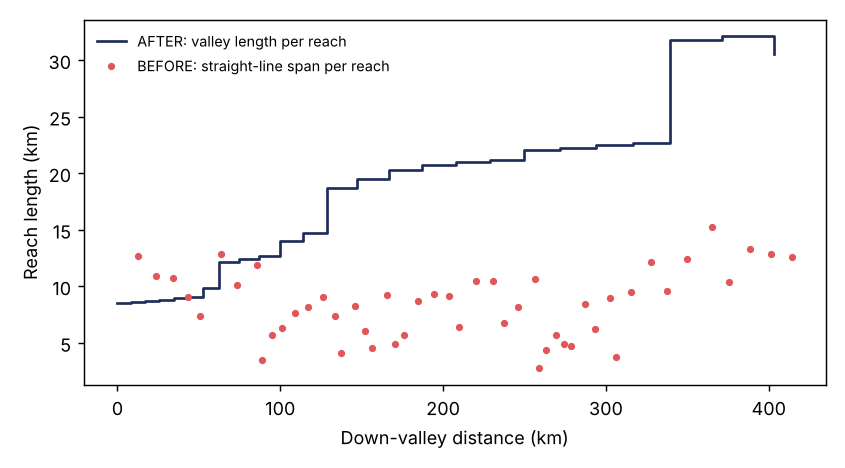
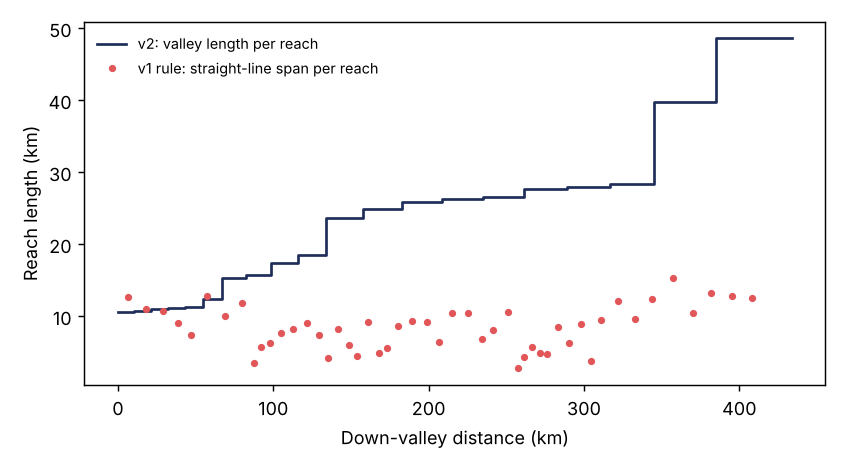
Split reaches by nearest valley position; default k = 100 widths
Reach polygon boundaries followed the channel (nearest channel
centreline). New default `boundary_method: nearest_valley` merges the
reach buffers into one corridor (head/mouth squared off) and splits it
by nearest position along the valley line, so boundaries run
perpendicular to the valley, never overlap, and match the valley-distance
reach definition; the same partition can split a wider channel belt
later. nearest_centerline and cut_lines remain as options.

Default widths_per_reach 80 -> 100 (~9 meander wavelengths, ~20 bends)
for slightly longer reaches. Ok Tedi-Fly: 20 reaches, valley length
10.6 -> 48.6 km, no overlaps. Docs and figures updated. 41 tests.

Claude-Session: https://claude.ai/code/session_01MCMKuBgRrXSshe94v2fCXk

diff --git a/rivmapper_v2/reaches.py b/rivmapper_v2/reaches.py
@@ -1,7 +1,7 @@
 """Step 02 — divide each river into reaches and build reach polygons.
 
 Default (``length_method: valley_widths``): reaches are ``widths_per_reach``
-(k = 80) channel widths long measured along a smoothed *valley line*, with
+(k = 100) channel widths long measured along a smoothed *valley line*, with
 width from a per-river power law W(A) fitted to SWORD node widths, so
 reaches hold a consistent number of meander wavelengths and lengthen
 downstream (see ``valley.py`` and docs/methods/reaches.md). The v1 rule,
@@ -12,10 +12,13 @@ Each reach centreline is buffered by ``buffer_width`` × its valley length
 (channel length for drainage_regression). Neighbouring buffers are
 separated by ``boundary_method``:
 
-``nearest_centerline`` (default)
-    Every point goes to the reach whose centreline is closest (a Voronoi
-    partition of points sampled along the centrelines), so polygons never
-    overlap or leave wedge gaps, even where the channel loops back.
+``nearest_valley`` (default)
+    The buffers are merged into one corridor, which is split by nearest
+    position along the valley line (Voronoi partition of points sampled
+    along the valley line), so boundaries run perpendicular to the valley,
+    never overlap, and are consistent with valley-distance reaches.
+``nearest_centerline``
+    Every point goes to the reach whose channel centreline is closest.
 ``cut_lines``
     Perpendicular cuts at every boundary (original method); can overlap
     where the channel doubles back.
@@ -300,6 +303,43 @@ def nearest_centerline_cells(
     return out
 
 
+def nearest_valley_cells(
+    vl, reach_starts: np.ndarray, extent, spacing_m: float = 100.0
+) -> list:
+    """Partition ``extent`` by nearest position along the valley line.
+
+    Points are sampled every ``spacing_m`` along the valley line and
+    labelled with the reach whose valley-distance interval contains them;
+    their Voronoi cells are dissolved by reach. Near the valley line the
+    boundaries are perpendicular to it at each reach break, and they extend
+    without crossing across a wide valley.
+    """
+    import shapely
+
+    v = vl.valley_dist
+    d = np.r_[np.arange(0.0, v[-1], spacing_m), v[-1]]
+    px, py = np.interp(d, v, vl.x), np.interp(d, v, vl.y)
+    # drop duplicate coordinates (Voronoi needs distinct points)
+    keep = np.r_[True, np.hypot(np.diff(px), np.diff(py)) > 1e-6]
+    d, px, py = d[keep], px[keep], py[keep]
+    labels = np.clip(np.searchsorted(reach_starts, d, side="right") - 1, 0, None)
+    pts = shapely.points(px, py)
+    cells = shapely.get_parts(
+        shapely.voronoi_polygons(shapely.multipoints(pts), extend_to=extent)
+    )
+    point_idx, cell_idx = shapely.STRtree(cells).query(pts, predicate="within")
+    owner = np.full(len(cells), -1)
+    owner[cell_idx] = labels[point_idx]
+    out = []
+    for i in range(len(reach_starts)):
+        mine = cells[owner == i]
+        try:
+            out.append(shapely.coverage_union_all(mine))
+        except Exception:  # noqa: BLE001
+            out.append(shapely.union_all(mine))
+    return out
+
+
 def _total_overlap_km2(geoms: list) -> float:
     """Sum of pairwise intersection areas between all polygons."""
     import shapely
@@ -494,7 +534,49 @@ def build_reaches(
     n = len(reach_geoms)
     polys, unclipped, multipart = [], [], []
 
-    if settings.boundary_method == "nearest_centerline":
+    method = settings.boundary_method
+    if method == "nearest_valley" and vl is None:
+        log.info(
+            "  boundary_method nearest_valley needs a valley line "
+            "(length_method valley_widths); using nearest_centerline"
+        )
+        method = "nearest_centerline"
+
+    if method == "nearest_valley":
+        # One corridor (union of all reach buffers, head and mouth squared
+        # off), split by nearest position along the valley line, so reach
+        # boundaries run perpendicular to the valley, not the channel.
+        import shapely
+        from shapely.geometry import box
+
+        corridor = shapely.union_all(buffers)
+        corridor, ok_head = clip_by_cut(corridor, cuts[0], mids[0])
+        corridor, ok_mouth = clip_by_cut(corridor, cuts[-1], mids[-1])
+        if not ok_head:
+            unclipped.append(1)
+        if not ok_mouth:
+            unclipped.append(n)
+        extent = box(*corridor.bounds).buffer(1.0)
+        cells = nearest_valley_cells(
+            vl,
+            lines["valley_dist"].to_numpy(),
+            extent,
+            settings.partition_spacing_m,
+        )
+        for i in range(n):
+            poly = corridor.intersection(cells[i])
+            if poly.geom_type == "GeometryCollection":
+                poly = shapely.union_all(
+                    [
+                        g
+                        for g in poly.geoms
+                        if g.geom_type in ("Polygon", "MultiPolygon")
+                    ]
+                )
+            if poly.geom_type == "MultiPolygon":
+                multipart.append(i + 1)
+            polys.append(poly)
+    elif method == "nearest_centerline":
         # Neighbours are separated by the nearest-centreline partition; cut
         # lines are only used to square off the river head and mouth.
         from shapely.geometry import box
@@ -541,7 +623,7 @@ def build_reaches(
     if overlap_km2 > 0.01:
         log.warning(
             "  reach polygons overlap by %.2f km² in total — likely crossing "
-            "cut lines on a sharp bend; use boundary_method: nearest_centerline",
+            "cut lines on a sharp bend; use boundary_method: nearest_valley",
             overlap_km2,
         )
     if multipart:
@@ -551,12 +633,12 @@ def build_reaches(
             multipart,
         )
 
+    diag["boundary_method"] = method
     diagnostics = {
         **diag,
         "n_reaches": int(len(lines)),
         "river_length_km": round(float(cum_end[-1]) / 1000, 3),
         "trimmed_tail_km": round(trimmed_m / 1000, 3),
-        "boundary_method": settings.boundary_method,
         "unclipped_reaches": unclipped,
         "multipart_reaches": multipart,
         "overlap_km2": round(overlap_km2, 4),

diff --git a/rivmapper_v2/templates.py b/rivmapper_v2/templates.py
@@ -67,7 +67,7 @@ reaches:
   #   along a smoothed valley line; W(A) is a width-vs-drainage-area power law
   #   fitted to SWORD widths. drainage_regression: v1 rule on channel length.
   length_method: {_v(r["length_method"])}
-  widths_per_reach: {_v(r["widths_per_reach"])}       # k: ~80 W = ~7 meander wavelengths, ~15 bends
+  widths_per_reach: {_v(r["widths_per_reach"])}       # k: 100 W = ~9 meander wavelengths, ~20 bends
   buffer_width: {_v(r["buffer_width"])}        # buffer half-width as a fraction of reach (valley) length (required)
   valley_sigma_widths: {_v(r["valley_sigma_widths"])}    # valley-line smoothing scale (channel widths)
   valley_sinuosity_factor: {_v(r["valley_sinuosity_factor"])} # smoothing in sinuous reaches = this x local sinuosity (widths)
@@ -82,11 +82,12 @@ reaches:
   smoothing_window_multiplier: {_v(r["smoothing_window_multiplier"])}  # cut-line direction window = this x reach length
   n_tangent_samples: {_v(r["n_tangent_samples"])}
   cut_extent_factor: {_v(r["cut_extent_factor"])}      # cut-line half-length = this x largest buffer
-  # How neighbouring polygons are separated: nearest_centerline (each point goes
-  # to the closest reach centreline; never overlaps) or cut_lines (perpendicular
-  # cuts at each boundary; can overlap where the channel loops back).
+  # How neighbouring polygons are separated: nearest_valley (closest position
+  # along the valley line; boundaries perpendicular to the valley), nearest_centerline
+  # (closest reach channel centreline) or cut_lines (perpendicular cuts at each
+  # boundary; can overlap where the channel loops back).
   boundary_method: {_v(r["boundary_method"])}
-  partition_spacing_m: {_v(r["partition_spacing_m"])}   # centreline sample spacing for nearest_centerline
+  partition_spacing_m: {_v(r["partition_spacing_m"])}   # sample spacing for nearest_valley / nearest_centerline
 
 # Step 03: water masks (not yet ported to the package; validated now so the
 # rivers table can already carry these columns).

diff --git a/tests/test_reaches.py b/tests/test_reaches.py
@@ -62,8 +62,8 @@ def test_reaches_step_on_synthetic_river(synthetic_project):
         "width_ref",
         "geometry",
     ]
-    # constant width 100 m → every reach but the last is 80 widths of valley
-    assert np.allclose(lines["valley_len"].iloc[:-1], 8000.0)
+    # constant width 100 m → every reach but the last is 100 widths of valley
+    assert np.allclose(lines["valley_len"].iloc[:-1], 10_000.0)
     g = list(polys.geometry)
     overlap = sum(g[i].intersection(g[i + 1]).area for i in range(len(g) - 1))
     assert overlap < 1.0  # m²; cut lines separate neighbours
@@ -225,3 +225,33 @@ def test_valley_method_needs_nodes():
     sword, _, _ = _meandering_river(n_bends=10)
     with pytest.raises(RuntimeError, match="nodes"):
         build_reaches(sword, ReachSettings(buffer_width=0.15))
+
+
+def test_nearest_valley_boundaries_cross_the_valley():
+    """On a straight east-west valley, reach boundaries should be ~vertical
+    lines at the reach breaks, whatever the channel does."""
+    import shapely
+
+    from rivmapper_v2.reaches import build_reaches
+
+    sword, nodes, _ = _meandering_river()
+    b = build_reaches(
+        sword, ReachSettings(buffer_width=0.3, widths_per_reach=80), nodes
+    )
+    assert b.diagnostics["boundary_method"] == "nearest_valley"
+    assert b.diagnostics["overlap_km2"] < 1e-6
+    polys = list(b.polygons.geometry)
+    for i in range(len(polys) - 1):
+        shared = shapely.intersection(polys[i].boundary, polys[i + 1].boundary)
+        xs = shapely.get_coordinates(shared)[:, 0]
+        assert np.ptp(xs) < 0.05 * b.lines["valley_len"].iloc[i]
+
+
+def test_nearest_valley_falls_back_without_valley_line():
+    from rivmapper_v2.reaches import build_reaches
+
+    b = build_reaches(
+        _hairpin_sword(),
+        ReachSettings(buffer_width=0.5, length_method="drainage_regression"),
+    )
+    assert b.diagnostics["boundary_method"] == "nearest_centerline"

diff --git a/rivmapper_v2/config.py b/rivmapper_v2/config.py
@@ -105,7 +105,7 @@ class ReachSettings(_Section):
         "drainage_regression: v1 channel-length regression on drainage area.",
     )
     widths_per_reach: float = Field(
-        80.0, gt=0, description="k: reach valley length in channel widths."
+        100.0, gt=0, description="k: reach valley length in channel widths."
     )
     valley_sigma_widths: float = Field(
         15.0, gt=0, description="Base valley-line smoothing scale (channel widths)."
@@ -134,11 +134,14 @@ class ReachSettings(_Section):
     smoothing_window_multiplier: float = Field(1.5, gt=0)
     n_tangent_samples: int = Field(21, ge=3)
     cut_extent_factor: float = Field(3.0, gt=0)
-    boundary_method: Literal["nearest_centerline", "cut_lines"] = Field(
-        "nearest_centerline",
-        description="How neighbouring reach polygons are separated: "
-        "nearest_centerline (each point goes to the closest reach centreline; "
-        "never overlaps) or cut_lines (perpendicular cuts at each boundary).",
+    boundary_method: Literal["nearest_valley", "nearest_centerline", "cut_lines"] = (
+        Field(
+            "nearest_valley",
+            description="How neighbouring reach polygons are separated: "
+            "nearest_valley (closest position along the valley line; boundaries "
+            "perpendicular to the valley), nearest_centerline (closest reach "
+            "channel centreline) or cut_lines (perpendicular cuts at each boundary).",
+        )
     )
     partition_spacing_m: float = Field(
         100.0,

diff --git a/tests/test_real_sword.py b/tests/test_real_sword.py
@@ -24,9 +24,9 @@ def test_beni_end_to_end(tmp_path, real_sword_dir):
     assert len(gpd.read_file(r.paths.sword_reaches)) == 73
     assert len(gpd.read_file(r.paths.sword_nodes)) == 4890
     lines = gpd.read_file(r.paths.reach_lines)
-    # valley_widths (default): ~80 widths of valley per reach, growing downstream
+    # valley_widths (default): 100 widths of valley per reach, growing downstream
     nw = lines["valley_len"] / lines["width_ref"]
-    assert nw.iloc[:-1].between(79, 81).all()
+    assert nw.iloc[:-1].between(99, 101).all()
     assert r.paths.valley_line.exists()
 
     # drainage_regression reproduces the v2 notebook result (45 reaches)

diff --git a/docs/methods/reaches.md b/docs/methods/reaches.md
@@ -4,17 +4,17 @@ How RivMapper v2 divides a river into analysis reaches: what is computed, which 
 
 ## Summary
 
-Reaches are defined by **down-valley length**, not along-channel length. Each reach spans a fixed number of channel widths of valley, **k × W(A)** with k = 80 by default, where **W(A)** is a power law of channel width against drainage area fitted to that river's SWORD node widths. Reaches therefore:
+Reaches are defined by **down-valley length**, not along-channel length. Each reach spans a fixed number of channel widths of valley, **k × W(A)** with k = 100 by default, where **W(A)** is a power law of channel width against drainage area fitted to that river's SWORD node widths. Reaches therefore:
 
-- contain a consistent number of meander wavelengths (~7) and bends (~15), however sinuous the channel is;
+- contain a consistent number of meander wavelengths (~9) and bends (~20), however sinuous the channel is;
 - lengthen downstream as the river widens, following the river's own measured hydraulic geometry;
 - have along-channel lengths that vary with sinuosity, as they should.
 
-Reach polygons are buffers of each reach centreline, separated from their neighbours by a nearest-centreline partition so they never overlap.
+Reach polygons cover a corridor around the channel. Neighbouring reaches are split by nearest position along the valley line, so boundaries run straight across the valley and polygons never overlap.
 
 ![Ok Tedi–Fly reaches before and after](img/oktedi_reaches_before_after.png)
 
-*Ok Tedi–Fly, buffer_width 0.15.* Left: v1 drainage-area regression on channel length (49 reaches). Right: 80 channel widths of valley length (25 reaches); the dashed line is the valley line.
+*Ok Tedi–Fly, buffer_width 0.15.* Left: the v1 rule (drainage-area regression on channel length, with perpendicular cut lines; 49 reaches). Right: 100 channel widths of valley length, split by nearest valley position (20 reaches). The dashed line is the valley line.
 
 ![Reach length profile](img/oktedi_reach_length_profile.png)
 
@@ -65,23 +65,26 @@ Starting at the upstream end, each reach's valley length is set to `widths_per_r
 - Breaks are placed at those valley distances and mapped to channel distance by interpolating between nodes. Each node's position along the merged channel line is forced to be monotonic first.
 - A final remainder shorter than `final_merge_fraction` (0.5) of its nominal length is merged into the reach above.
 
-**Why k = 80:**
-- Meander wavelength is ≈ 11 W (Leopold & Wolman, 1960; Williams, 1986), so 80 W is ≈ 7 wavelengths.
-- A bend is ≈ 10 W along the channel (Geyman et al., 2025), so 80 W of valley is ≈ 15 bends at modest sinuosity, and more where sinuosity is higher.
-- This meets the ≥ 15-bend aggregation of Greenberg & Ganti (2024), and well exceeds the ≥ 3-bend minimum reach scale of Greenberg et al. (2023).
+**Why k = 100:**
+- Meander wavelength is ≈ 11 W (Leopold & Wolman, 1960; Williams, 1986), so 100 W is ≈ 9 wavelengths.
+- A bend is ≈ 10 W along the channel (Geyman et al., 2025), so 100 W of valley is ≈ 20 bends at modest sinuosity, and more where sinuosity is higher.
+- This is comfortably above the ≥ 15-bend aggregation of Greenberg & Ganti (2024), and well above the ≥ 3-bend minimum reach scale of Greenberg et al. (2023).
+- k = 80 (≈ 15 bends) also meets these criteria. 100 was chosen for slightly longer, more stable reaches.
 
-*Ok Tedi–Fly:* 25 reaches, with valley length 8.5 → 32 km downstream (70–81 widths each). Along-channel length is 10.7–53 km, and reach sinuosity 1.15–2.4.
+*Ok Tedi–Fly:* 20 reaches, with valley length 10.6 → 48.6 km downstream (100–120 widths each; the last reach includes a merged remainder). Along-channel length is 13.4–81 km, and reach sinuosity 1.1–2.3.
 
 ### 4. Reach polygons
 
-- **Buffer:** each reach centreline is buffered by `buffer_width` × the reach's valley length. With 0.15 × 80 W this is a half-width of ≈ 12 W, so the corridor scales with river size rather than with sinuosity.
-- **Neighbours:** separated by a nearest-centreline partition (`boundary_method: nearest_centerline`).
-  - Points are sampled every 100 m along all reach centrelines.
-  - Their Voronoi cells are dissolved by reach, and each buffer is intersected with its reach's cell.
-  - Polygons therefore never overlap or leave wedge gaps, even where the channel doubles back. On the Ok Tedi, perpendicular cut lines (`boundary_method: cut_lines`) left 29 km² of overlap at a loop (figure below, drawn with v1-style reaches).
-
-    ![Cut lines vs nearest centreline](img/oktedi_boundaries_before_after.png)
-- **Head and mouth:** squared off with cuts perpendicular to the valley line.
+- **Corridor:** each reach centreline is buffered by `buffer_width` × the reach's valley length. With 0.15 × 100 W this is a half-width of ≈ 15 W, so the corridor scales with river size rather than with sinuosity. The buffers are merged into one corridor, and the river head and mouth are squared off with cuts perpendicular to the valley line.
+- **Splitting the corridor into reaches** (`boundary_method: nearest_valley`, the default):
+  - Points are sampled every 100 m along the valley line and labelled with the reach whose valley-distance interval contains them.
+  - Their Voronoi cells are dissolved by reach, and the corridor is intersected with each reach's cell.
+  - Every location therefore belongs to the reach at the nearest down-valley position. Boundaries run perpendicular to the valley line at each reach break, extend across the whole valley without crossing, and never overlap.
+  - Reach polygons are thus consistent with how reaches are defined, by valley distance. Any wider area dataset, such as a channel belt from Nyberg et al. (2023) or one mapped by hand, can be split among reaches using the same partition.
+  - Trade-off: where a meander loop crosses a reach boundary, that part of the channel falls in the neighbouring reach's polygon.
+- **Alternatives:**
+  - `nearest_centerline`: splits by the nearest reach *channel* centreline. Boundaries follow the channel, and far from it they depend on where the channel currently sits.
+  - `cut_lines`: the v1 approach, cuts perpendicular to the smoothed channel direction at each break. On the Ok Tedi this left 29 km² of overlap where the channel doubles back.
 
 ### Outputs
 
@@ -90,7 +93,7 @@ Starting at the upstream end, each reach's valley length is set to `widths_per_r
 | File | Contents |
 |---|---|
 | `{river}_reach_lines.gpkg` | Reach centrelines |
-| `{river}_reach_polygons.gpkg` | Reach polygons |
+| `{river}_reach_polygons.gpkg` | Reach polygons (corridor split by nearest valley position) |
 | `{river}_valley_line.gpkg` | The valley line |
 | `{river}_reaches_run.yaml` | Parameters, width-model coefficients and diagnostics |
 
@@ -113,18 +116,19 @@ The lines and polygons carry these fields:
 | Parameter | Default | Meaning |
 |---|---|---|
 | `length_method` | `valley_widths` | Or `drainage_regression` (v1 rule) |
-| `widths_per_reach` | 80 | k: valley length per reach in channel widths |
+| `widths_per_reach` | 100 | k: valley length per reach in channel widths |
 | `buffer_width` | – (required) | Buffer half-width as a fraction of reach valley length |
 | `valley_sigma_widths` | 15 | Base valley-line smoothing scale (W) |
 | `valley_sinuosity_factor` | 6 | Smoothing in sinuous reaches = factor × local sinuosity (W) |
 | `final_merge_fraction` | 0.5 | Merge a last reach shorter than this × nominal |
-| `boundary_method` | `nearest_centerline` | Or `cut_lines` |
-| `partition_spacing_m` | 100 | Centreline sampling for the nearest-centreline partition |
+| `boundary_method` | `nearest_valley` | Or `nearest_centerline`, `cut_lines` |
+| `partition_spacing_m` | 100 | Sampling spacing (m) for the nearest-valley / nearest-centreline partition |
 
 ## Limitations and planned upgrades
 
 - **Braided and anabranching rivers** (e.g. Bermejo): the SWORD single thread is only a proxy for the channel belt. Its smoothed version should still give a reasonable valley line. The planned upgrade is RivMAP-style: build the valley line from the multi-decade channel belt (union of Landsat water masks or JRC occurrence), taking the centreline as the mean of smoothed belt edges.
-- **Sensitivity:** before publication, report results at k = 40, 80 and 160, along with bends and sinuosity per reach.
+- **Sensitivity:** before publication, report results at k = 50, 100 and 200, along with bends and sinuosity per reach.
+- **Channel belt:** the corridor is sized to contain the 1985–2024 channel for mask extraction, not the full channel belt. The belt will come from Nyberg et al. (2023) or be mapped by hand, and is split among reaches with the same nearest-valley partition, extended across the valley.
 - **SWORD widths** are wetted widths from a single source, not bankfull widths. The binned power-law fit limits their noise, but the absolute reach length inherits any width bias.
 - **Ends:** the first and last reaches sit within the reflection-padded part of the valley line.
 
@@ -133,6 +137,7 @@ The lines and polygons carry these fields:
 - Geyman, E. C., et al. (2025). *Science Advances*, 11, eadu8574. https://doi.org/10.1126/sciadv.adu8574 (mean bend length ≈ 10 W)
 - Greenberg, E., Chadwick, A. J., & Ganti, V. (2023). A generalized area-based framework to quantify river mobility from remotely sensed imagery. *JGR: Earth Surface*, 128, e2023JF007189. https://doi.org/10.1029/2023JF007189 (reach scale ≥ 3 bends)
 - Greenberg, E., & Ganti, V. (2024). *Earth and Planetary Science Letters*, 634, 118674. https://doi.org/10.1016/j.epsl.2024.118674 (aggregation over > 15 bends; 139 rivers)
+- Nyberg, B., et al. (2023). *Nature Communications*. Global channel-belt dataset; full reference and DOI to be added.
 - Leopold, L. B., & Wolman, M. G. (1960). River meanders. *GSA Bulletin*, 71, 769–793. https://doi.org/10.1130/0016-7606(1960)71[769:RM]2.0.CO;2 (λ ≈ 11 W)
 - Rowland, J. C., et al. (2023). *JGR: Earth Surface*, 128, e2023JF007101. https://doi.org/10.1029/2023JF007101 (Arctic rivers; segment length did not bias erosion rates)
 - Schwenk, J., Khandelwal, A., Fratkin, M., Kumar, V., & Foufoula-Georgiou, E. (2017). High spatiotemporal resolution of river planform dynamics from Landsat: The RivMAP toolbox and results from the Ucayali River. *Earth and Space Science*, 4, 46–75. https://doi.org/10.1002/2016EA000196 (valley line from 50 W-smoothed channel-belt edges)
@@ -141,5 +146,5 @@ The lines and polygons carry these fields:
 
 **Check before citing in a manuscript.** These were gathered by literature review and not all were confirmed against the original text:
 - the exact Leopold & Wolman (1960) coefficient (λ = 11.0 W^1.01);
-- the full author lists for Geyman et al. (2025) and Rowland et al. (2023);
+- the full author lists for Geyman et al. (2025) and Rowland et al. (2023), and the full reference for Nyberg et al. (2023);
 - whether Greenberg & Ganti (2024) measure along the valley or the channel.

diff --git a/README.md b/README.md
@@ -119,7 +119,7 @@ If the old working directory already holds a `SWORD/` folder, the new config kee
 | Step | Module | Output (under `data_root`) |
 |---|---|---|
 | `sword` | `rivmapper_v2/sword.py` | `{river}/sword/`: traced SWORD reaches and nodes |
-| `reaches` | `rivmapper_v2/reaches.py`, `valley.py` | `{river}/reaches/`: reach lines, polygons and valley line. Reaches are 80 channel widths of valley length, and polygons never overlap. Method and citations: [docs/methods/reaches.md](docs/methods/reaches.md) |
+| `reaches` | `rivmapper_v2/reaches.py`, `valley.py` | `{river}/reaches/`: reach lines, polygons and valley line. Reaches are 100 channel widths of valley length, split by nearest position along the valley, so polygons never overlap. Method and citations: [docs/methods/reaches.md](docs/methods/reaches.md) |
 | masks | `notebooks/03_create_masks.ipynb` | Not yet ported; still reads the old master CSV |
 
 ## Repository structure
